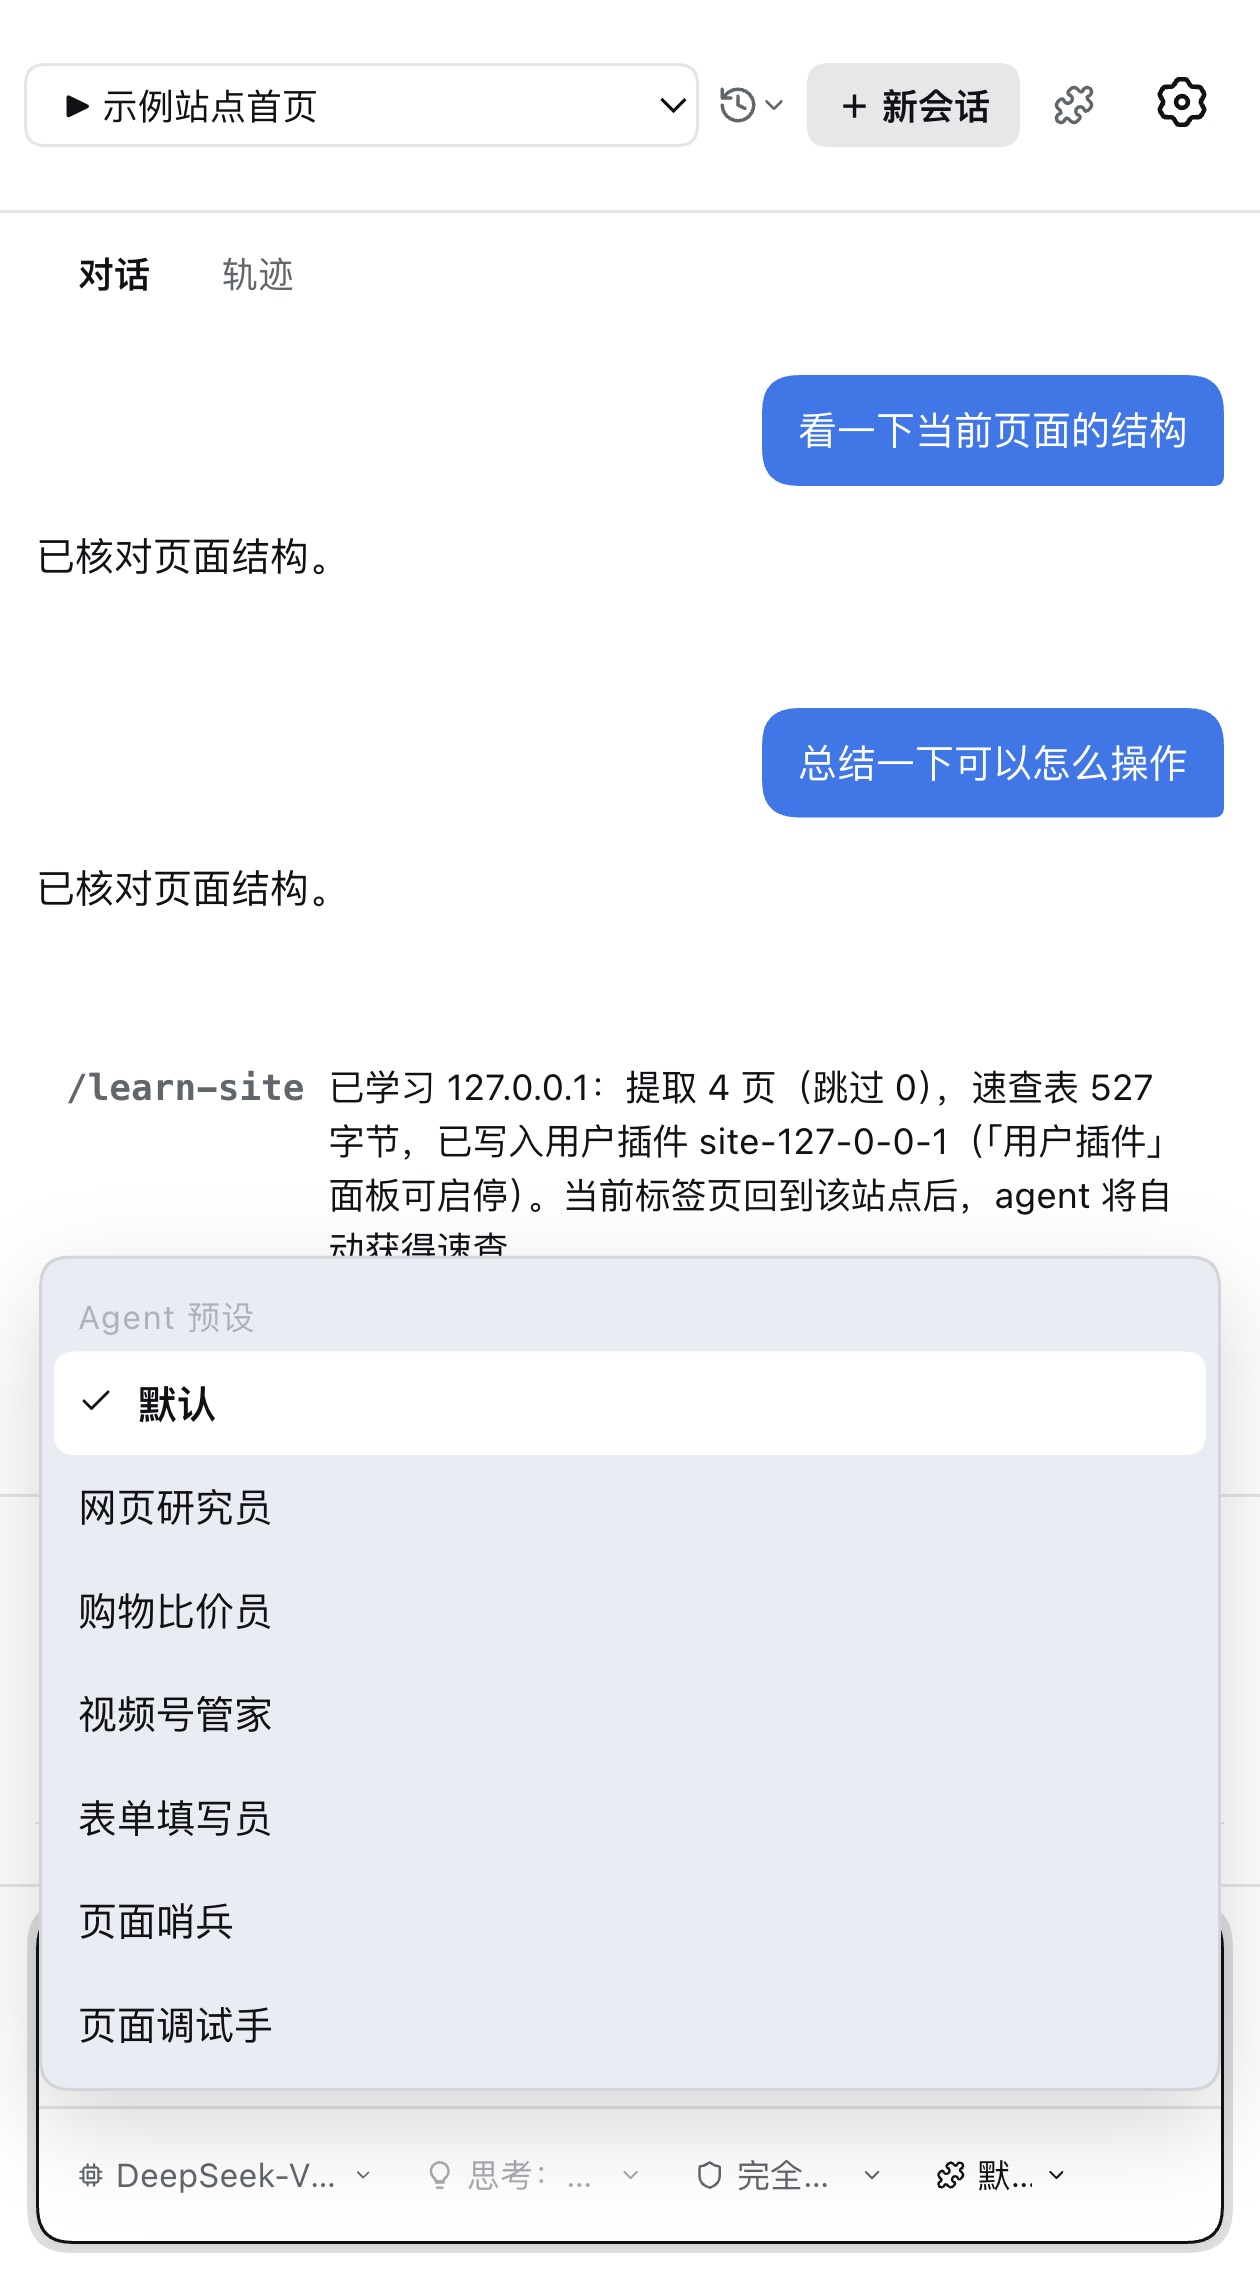
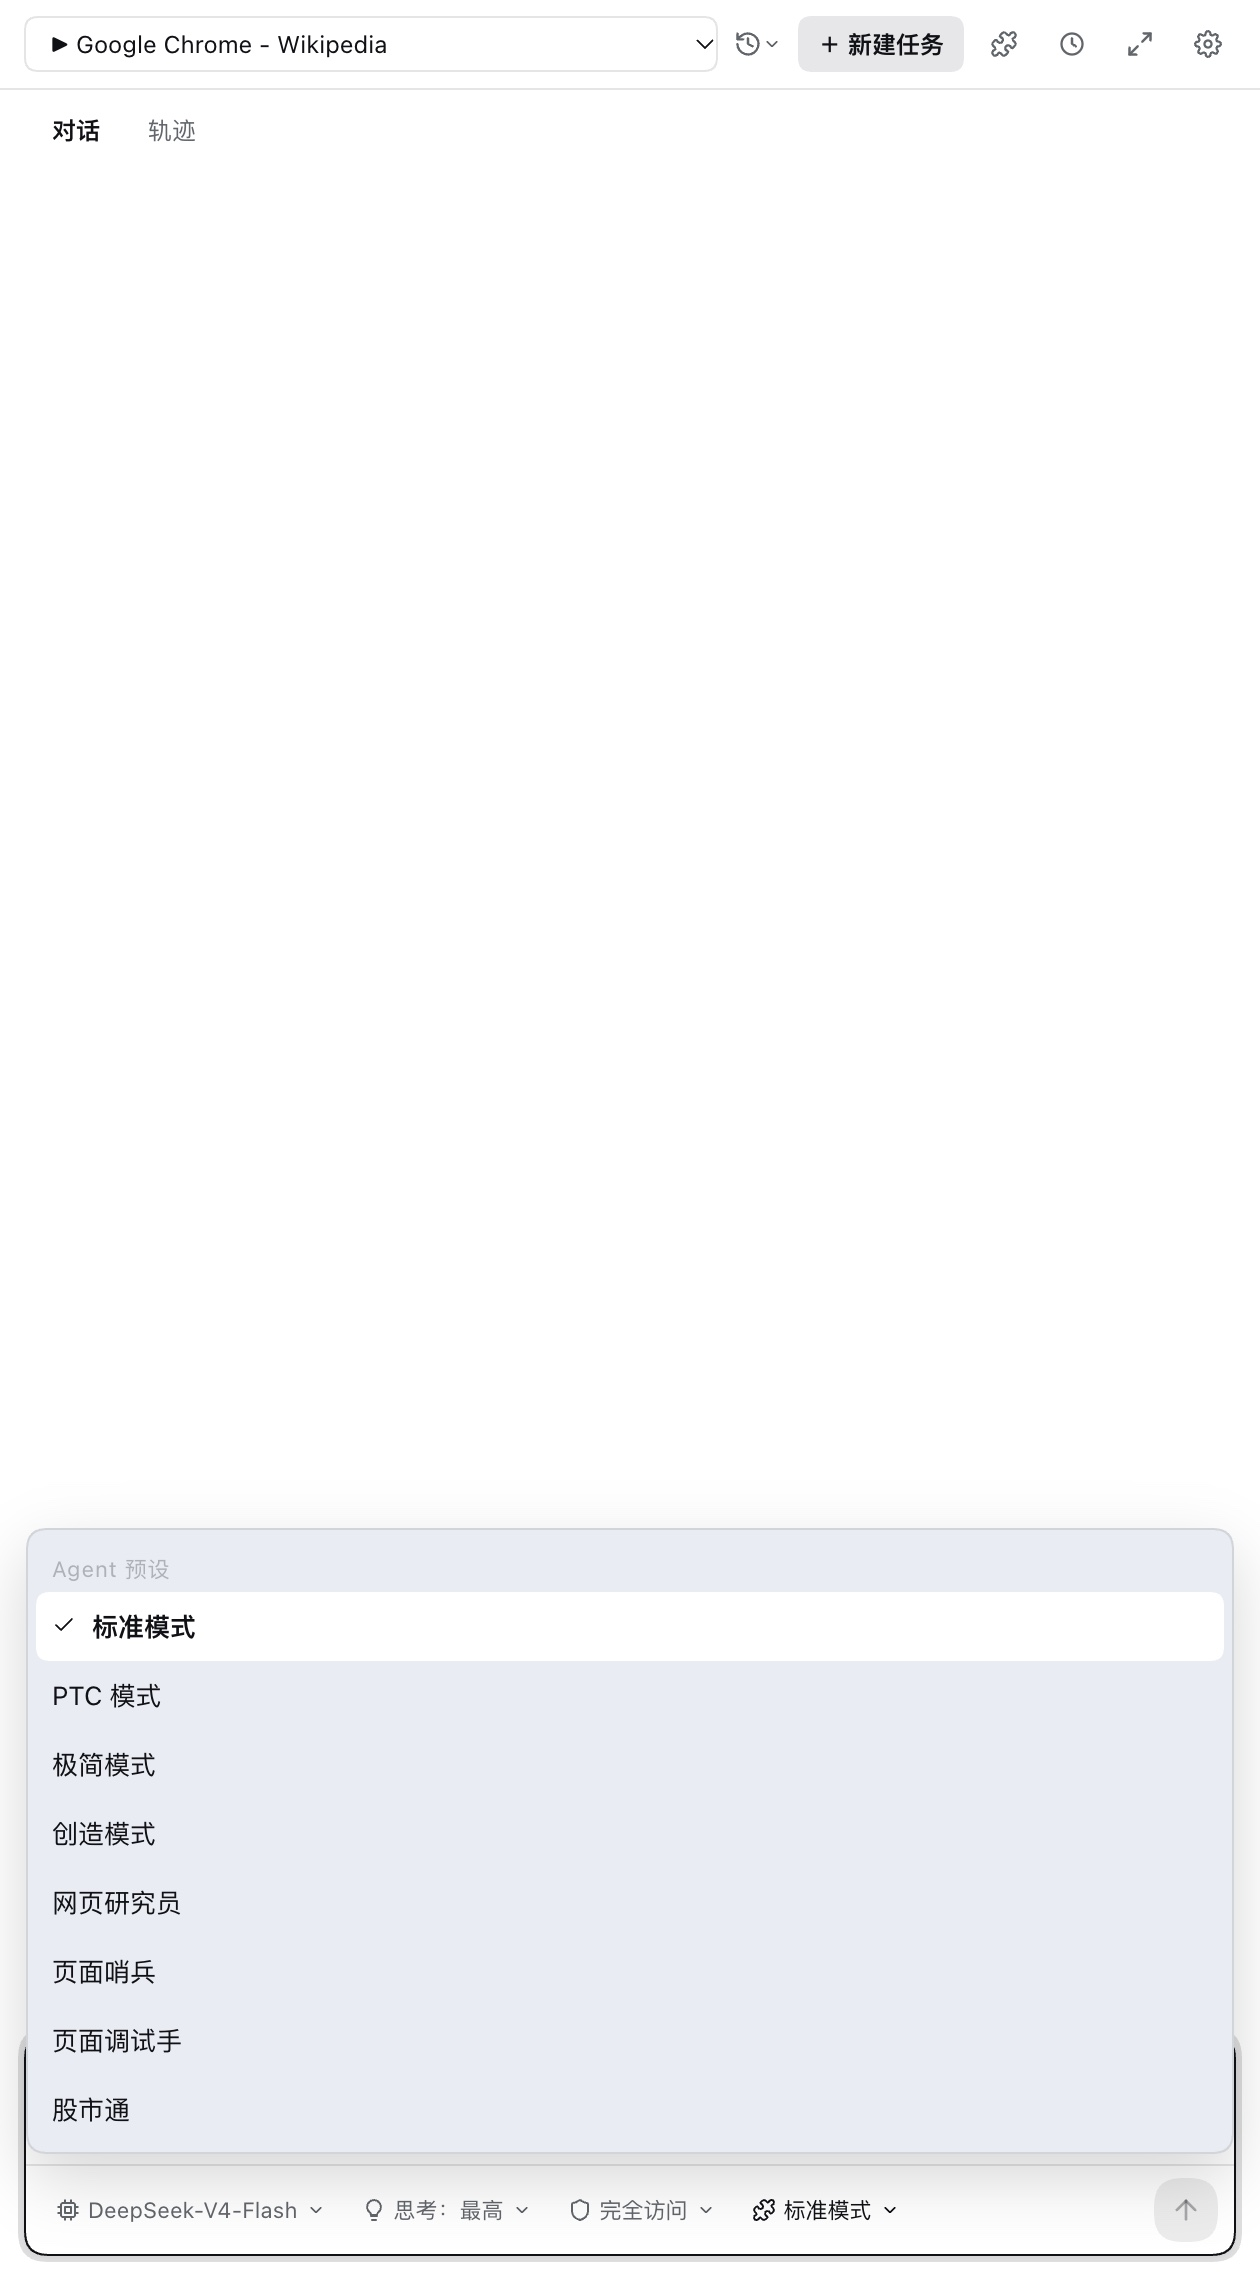
site: bring the landing content up to v0.7.0
The presets story still described the six scenarios removed in the
preset overhaul, the stats band counted 25+ tools, and the presets
screenshot showed the retired roster (购物比价员 et al. next to preset
cards that no longer exist). Now:

- stats: 60+ tools, 8 presets & modes
- presets section: the shipped roster - Standard/PTC/Minimal/Create
  work modes plus Web researcher, Page sentinel, Dev probe, Market
  watcher - with descriptions from the shipped definitions
- hero feature card: 六个场景预设 gives way to 视频智能 · 实时陪看,
  the 0.7.0 headline capability the page never mentioned
- panel screenshots re-shot against the current dist: the preset
  dropdown with the live roster and the task conversation

diff --git a/website/.vitepress/theme/LandingLayout.vue b/website/.vitepress/theme/LandingLayout.vue
@@ -81,8 +81,8 @@ const zh: LandingCopy = {
   ],
   statsEyebrow: 'BY THE NUMBERS',
   stats: [
-    { value: '25+', label: '浏览器工具' },
-    { value: '6', label: '场景预设' },
+    { value: '60+', label: '浏览器工具' },
+    { value: '8', label: '预设与工作模式' },
     { value: '3', label: '权限档位' },
     { value: '100%', label: '本地会话日志' },
   ],
@@ -119,15 +119,17 @@ const zh: LandingCopy = {
     },
   ],
   presetsEyebrow: 'PRESETS',
-  presetsTitle: '六个开箱场景',
+  presetsTitle: '八种预设，四种工作方式',
   presetsBody: '每个预设保留完整工具集与你的模型路由，只把工作纪律写进提示词附加段。新会话默认完全访问，盾牌旋钮随时收权。',
   presets: [
-    { name: '网页研究', desc: '检索、交叉验证、汇总成文', note: '多源互证' },
-    { name: '购物比价', desc: '跨店对比、历史价格、下单前确认', note: '不可逆先问' },
-    { name: '视频号操作', desc: '登录态下的浏览、互动与管理', note: '会话保持' },
-    { name: '表单填写', desc: '长表单逐字段录入与自我纠错', note: '逐键输入' },
-    { name: '页面监控', desc: '轮询指定页面并按条件提醒', note: '定时巡视' },
-    { name: '开发者调试', desc: '结构探查、网络捕获、端点逆向', note: '只读优先' },
+    { name: '标准模式', desc: '完整工具集：浏览、操作、脚本检查、站点知识、计划与子代理', note: '全量工具' },
+    { name: 'PTC 模式', desc: '多步操作优先合成为程序一次执行，减少往返', note: '程序优先' },
+    { name: '极简模式', desc: '最少工具用量：能一步完成就不多步', note: '最小调用' },
+    { name: '创造模式', desc: '把角色、工作方式与边界整理成可保存的自定义预设', note: '造预设' },
+    { name: '网页研究员', desc: '深读网页、多源交叉验证，结论附出处', note: '多源互证' },
+    { name: '页面哨兵', desc: '周期观察页面变化，只读不写，有变化才报告', note: '只读监控' },
+    { name: '页面调试手', desc: '面向开发者：DOM 与控制台只读探查，定位页面问题', note: '只读探查' },
+    { name: '股市通', desc: '监听财经 UP 主动态，提炼个股与市场信号，可配定时任务每日监控', note: '定时监控' },
   ],
   presetsAlt: '六个场景预设的下拉菜单：网页研究、购物比价、视频号操作、表单填写、页面监控、开发者调试',
   ctaTitle: '把浏览器交给一个看得见的智能体',
@@ -145,8 +147,8 @@ const en: LandingCopy = {
   ],
   statsEyebrow: 'BY THE NUMBERS',
   stats: [
-    { value: '25+', label: 'browser tools' },
-    { value: '6', label: 'scenario presets' },
+    { value: '60+', label: 'browser tools' },
+    { value: '8', label: 'presets & modes' },
     { value: '3', label: 'permission tiers' },
     { value: '100%', label: 'local session log' },
   ],
@@ -183,15 +185,17 @@ const en: LandingCopy = {
     },
   ],
   presetsEyebrow: 'PRESETS',
-  presetsTitle: 'Six scenarios out of the box',
+  presetsTitle: 'Eight presets, four working styles',
   presetsBody: 'Every preset keeps the full tool set and your model route, encoding only its working discipline as a prompt addendum. New sessions start full-access; the shield knob tightens it anytime.',
   presets: [
-    { name: 'Web research', desc: 'Search, cross-verify, synthesize', note: 'multi-source' },
-    { name: 'Deal hunting', desc: 'Compare shops, price history, confirm before checkout', note: 'ask first' },
-    { name: 'Video ops', desc: 'Browse, engage, and manage under your login', note: 'session kept' },
-    { name: 'Form running', desc: 'Long forms, field by field, self-correcting', note: 'per keystroke' },
-    { name: 'Page monitoring', desc: 'Poll pages and alert on conditions', note: 'on a cadence' },
-    { name: 'Dev probing', desc: 'Structure, network capture, endpoint reverse-engineering', note: 'read-only first' },
+    { name: 'Standard', desc: 'Full tool set: browsing, actions, script checks, site knowledge, plans, subagents', note: 'full tools' },
+    { name: 'PTC', desc: 'Synthesizes multi-step operations into one program run to cut round trips', note: 'program first' },
+    { name: 'Minimal', desc: 'Fewest tool calls — one step when one step suffices', note: 'minimal calls' },
+    { name: 'Create', desc: 'Turns a role, working style, and boundaries into a saveable custom preset', note: 'make presets' },
+    { name: 'Web researcher', desc: 'Deep reads, multi-source cross-checks, cited conclusions', note: 'multi-source' },
+    { name: 'Page sentinel', desc: 'Watches pages on a cadence, read-only, reports only on change', note: 'read-only watch' },
+    { name: 'Dev probe', desc: 'For developers: read-only DOM and console probing to pin down page issues', note: 'read-only probe' },
+    { name: 'Market watcher', desc: 'Follows finance creators, distills stock and market signals, daily schedule optional', note: 'scheduled watch' },
   ],
   presetsAlt: 'The scenario-preset dropdown: web research, deal hunting, video ops, form running, page monitoring, dev probing',
   ctaTitle: 'Hand your browser to an agent you can watch',

diff --git a/docs/extension/index.md b/docs/extension/index.md
@@ -29,9 +29,9 @@ features:
   - icon: "<svg viewBox='0 0 24 24' width='26' height='26' fill='none' stroke='currentColor' stroke-width='1.6' stroke-linecap='round' stroke-linejoin='round'><path d='M12 3a9 9 0 1 0 9 9'/><path d='M17 3h4v4'/><path d='M21 3 12 12'/></svg>"
     title: Site learning · /learn-site
     details: One command mechanically learns a site's same-origin pages and condenses paths, forms, and stable selectors into a knowledge plugin. Return to that site and the cheat sheet enters the model's context automatically.
-  - icon: "<svg viewBox='0 0 24 24' width='26' height='26' fill='none' stroke='currentColor' stroke-width='1.6' stroke-linecap='round' stroke-linejoin='round'><rect x='3' y='3' width='7' height='7' rx='1.5'/><rect x='14' y='3' width='7' height='7' rx='1.5'/><rect x='3' y='14' width='7' height='7' rx='1.5'/><path d='M17.5 14v7M14 17.5h7'/></svg>"
-    title: Six scenario presets
-    details: Web research, deal hunting, video ops, form running, page monitoring, dev probing — each keeps the full tool set and your model route, encoding only its working discipline.
+  - icon: "<svg viewBox='0 0 24 24' width='26' height='26' fill='none' stroke='currentColor' stroke-width='1.6' stroke-linecap='round' stroke-linejoin='round'><circle cx='12' cy='12' r='9'/><path d='m10 9 5 3-5 3Z'/></svg>"
+    title: Video intelligence · live co-watching
+    details: Subtitle-first video Q&A — hand it a Bilibili link and five-minute chunks answer by timestamp with EVID citations. Zoom freezes key frames, and co-watching narrates the playing page frame by frame.
   - icon: "<svg viewBox='0 0 24 24' width='26' height='26' fill='none' stroke='currentColor' stroke-width='1.6' stroke-linecap='round' stroke-linejoin='round'><path d='M2 18v3c0 .6.4 1 1 1h4v-3h3v-3h2l1.4-1.4a6.5 6.5 0 1 0-4-4Z'/><circle cx='16.5' cy='7.5' r='.5'/></svg>"
     title: Bring your own model
     details: DeepSeek, Zhipu GLM, OpenAI-compatible, Anthropic-protocol, or local Ollama endpoints. Keys stay in local extension storage.

diff --git a/docs/extension/index.zh.md b/docs/extension/index.zh.md
@@ -29,9 +29,9 @@ features:
   - icon: "<svg viewBox='0 0 24 24' width='26' height='26' fill='none' stroke='currentColor' stroke-width='1.6' stroke-linecap='round' stroke-linejoin='round'><path d='M12 3a9 9 0 1 0 9 9'/><path d='M17 3h4v4'/><path d='M21 3 12 12'/></svg>"
     title: 站点学习 · /learn-site
     details: 一条指令机械学习整个站点的同源子页面，路径、表单与稳定选择器凝练成速查插件；回到该站点时自动进入模型上下文，按已知选择器直操作。
-  - icon: "<svg viewBox='0 0 24 24' width='26' height='26' fill='none' stroke='currentColor' stroke-width='1.6' stroke-linecap='round' stroke-linejoin='round'><rect x='3' y='3' width='7' height='7' rx='1.5'/><rect x='14' y='3' width='7' height='7' rx='1.5'/><rect x='3' y='14' width='7' height='7' rx='1.5'/><path d='M17.5 14v7M14 17.5h7'/></svg>"
-    title: 六个场景预设
-    details: 网页研究、购物比价、视频号操作、表单填写、页面监控、开发者调试——保留完整工具集与你的模型路由，只把工作纪律写进提示词。
+  - icon: "<svg viewBox='0 0 24 24' width='26' height='26' fill='none' stroke='currentColor' stroke-width='1.6' stroke-linecap='round' stroke-linejoin='round'><circle cx='12' cy='12' r='9'/><path d='m10 9 5 3-5 3Z'/></svg>"
+    title: 视频智能 · 实时陪看
+    details: 字幕优先的视频问答——给一个 B 站视频链接，5 分钟切片按时间点作答，回答自带 EVID 证据引用；缩放截帧定格关键画面，陪看模式逐帧解说正在播放的页面。
   - icon: "<svg viewBox='0 0 24 24' width='26' height='26' fill='none' stroke='currentColor' stroke-width='1.6' stroke-linecap='round' stroke-linejoin='round'><path d='M2 18v3c0 .6.4 1 1 1h4v-3h3v-3h2l1.4-1.4a6.5 6.5 0 1 0-4-4Z'/><circle cx='16.5' cy='7.5' r='.5'/></svg>"
     title: 自选模型
     details: DeepSeek、智谱 GLM、OpenAI 兼容、Anthropic 协议或本地 Ollama 端点。密钥只存本地扩展存储。
